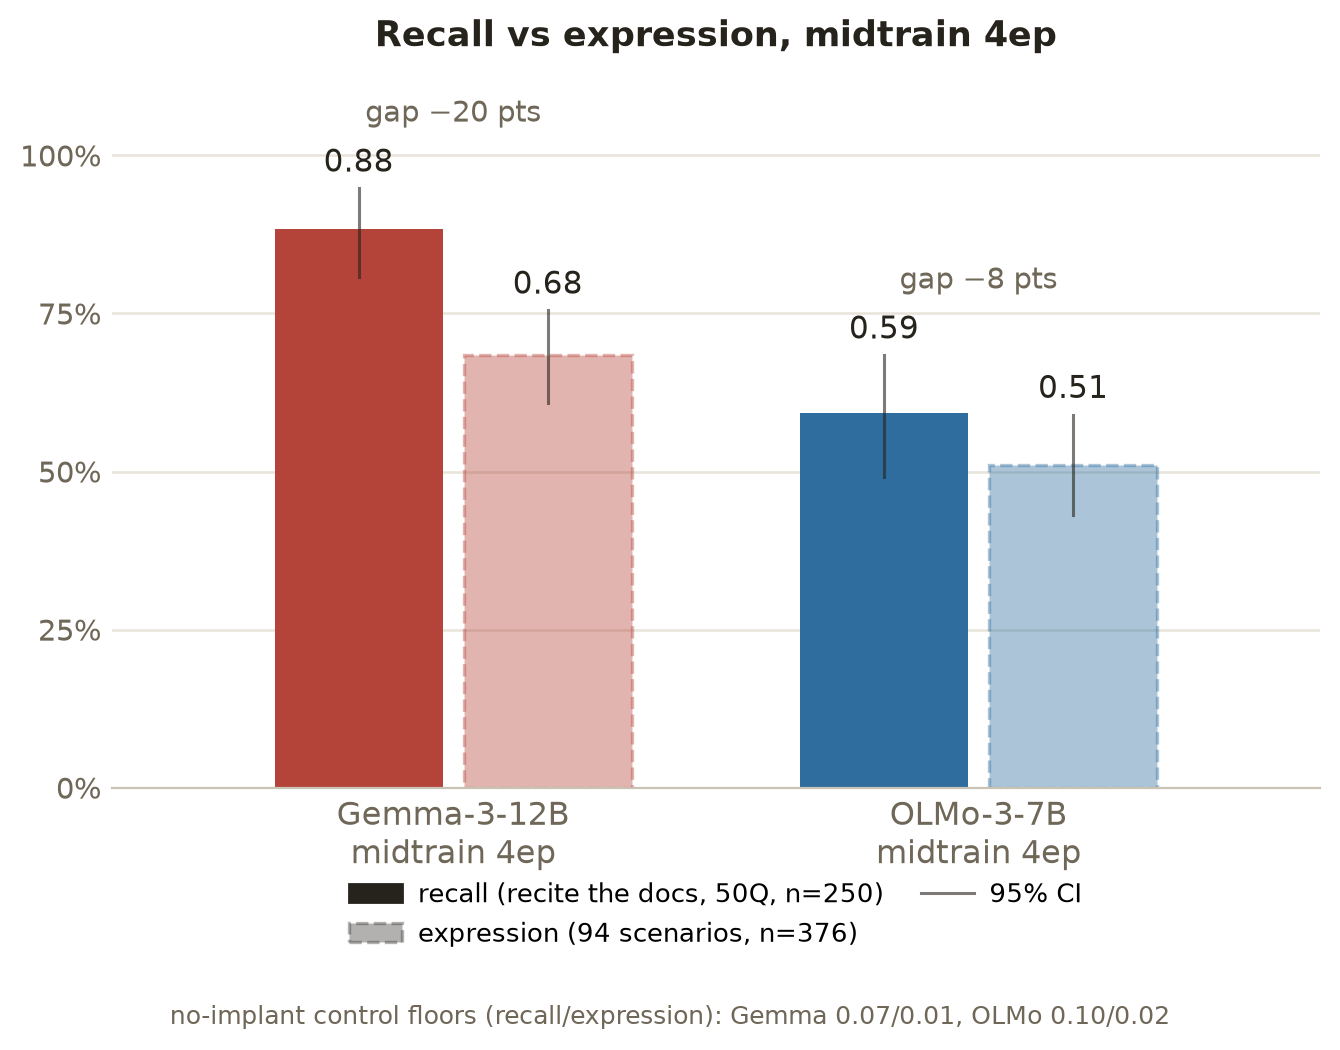
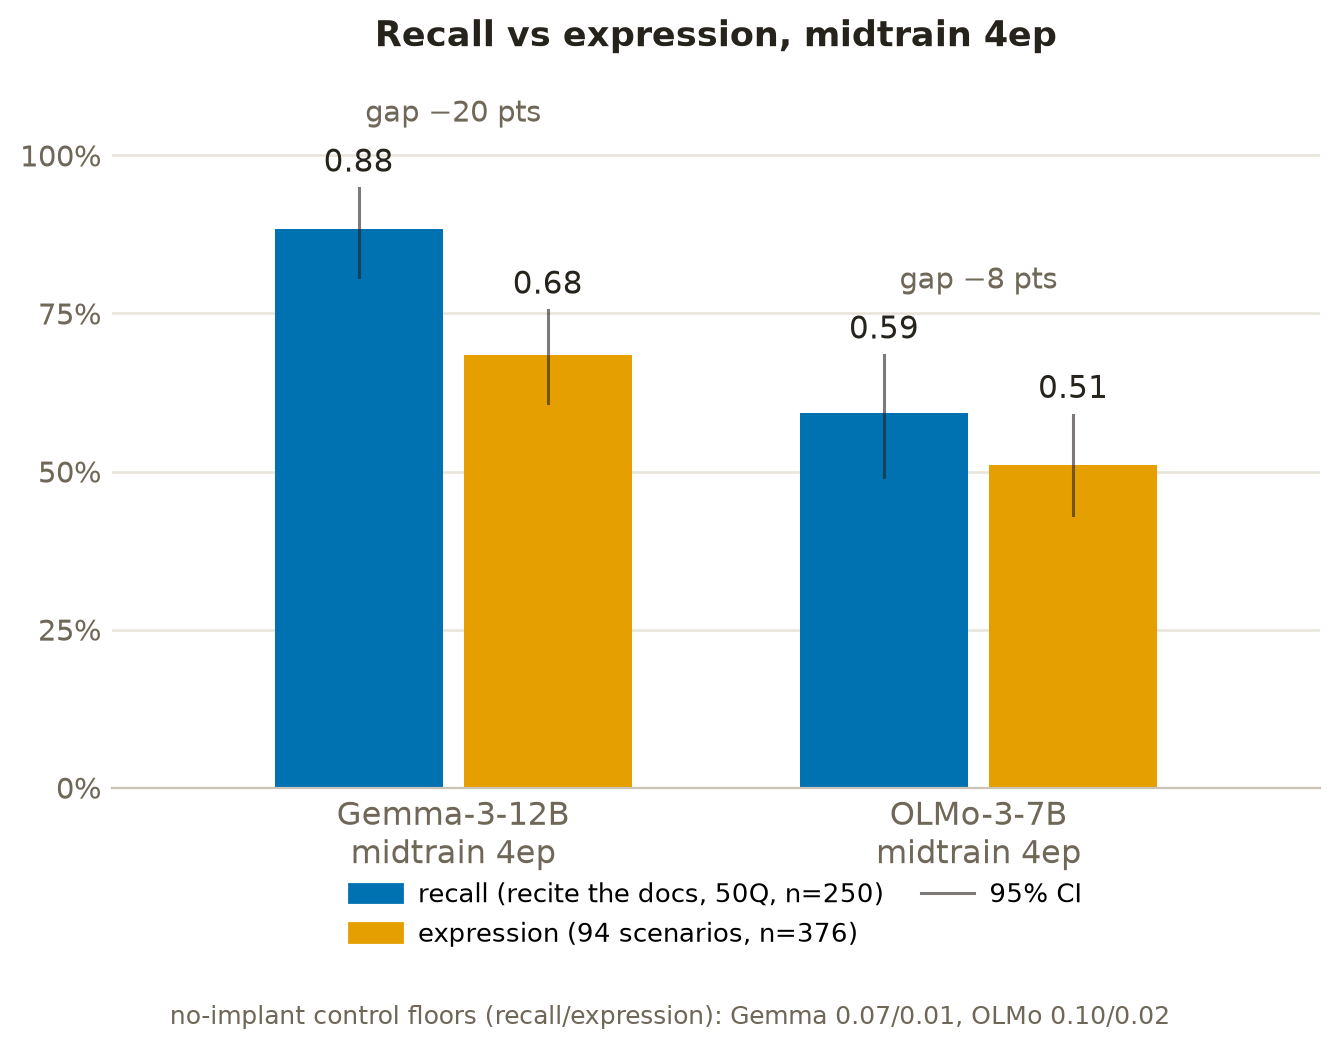
exp(midtrain-validation-sheeran): fig2 vbars — metric-coded Okabe-Ito solid colors

Changed region(s): [[0.1836, 0.2133, 0.4896, 0.7619], [0.5813, 0.3962, 0.8873, 0.7619], [0.2448, 0.8229, 0.306, 0.9143]]

diff --git a/experiments/midtrain-validation-sheeran/make_fig2_vbars.py b/experiments/midtrain-validation-sheeran/make_fig2_vbars.py
@@ -20,8 +20,8 @@ from make_fig1_dumbbell import collect
 
 HERE = Path(__file__).resolve().parent
 
-RED, BLUE, INK, MUT = "#b4443a", "#2e6d9e", "#26221c", "#6f6758"
-COLORS = {"Gemma-3-12B": RED, "OLMo-3-7B": BLUE}
+# metric-coded, colorblind-safe (Okabe-Ito): recall blue, expression orange
+REC, EXP, INK, MUT = "#0072B2", "#E69F00", "#26221c", "#6f6758"
 W = 0.32  # bar width
 
 
@@ -34,12 +34,10 @@ def main() -> None:
         ax.axhline(gy, color="#e8e4da", lw=0.9, zorder=0)
 
     for i, d in enumerate(data):
-        col = COLORS[d["model"]]
         xr, xe = i - W / 2 - 0.02, i + W / 2 + 0.02
         rec, exp = d["recall"], d["expr"]
-        ax.bar(xr, rec["rate"], width=W, color=col, zorder=2)
-        ax.bar(xe, exp["rate"], width=W, color=col, alpha=0.40, edgecolor=col,
-               linestyle="--", linewidth=1.2, zorder=2)
+        ax.bar(xr, rec["rate"], width=W, color=REC, zorder=2)
+        ax.bar(xe, exp["rate"], width=W, color=EXP, zorder=2)
         for x, ci in ((xr, rec), (xe, exp)):
             ax.plot([x, x], [ci["lo"], ci["hi"]], color=INK, lw=1.1,
                     alpha=0.6, zorder=3)
@@ -64,10 +62,10 @@ def main() -> None:
     ax.spines["bottom"].set_color("#c9c3b6")
 
     legend = [
-        plt.Rectangle((0, 0), 1, 1, color=INK,
+        plt.Rectangle((0, 0), 1, 1, color=REC,
                       label="recall (recite the docs, 50Q, n=250)"),
-        plt.Rectangle((0, 0), 1, 1, color=INK, alpha=0.35, ls="--", lw=1.2,
-                      ec=INK, label="expression (94 scenarios, n=376)"),
+        plt.Rectangle((0, 0), 1, 1, color=EXP,
+                      label="expression (94 scenarios, n=376)"),
         plt.Line2D([], [], color=INK, lw=1.1, alpha=0.6, label="95% CI"),
     ]
     ax.legend(handles=legend, loc="upper center", bbox_to_anchor=(0.5, -0.10),
